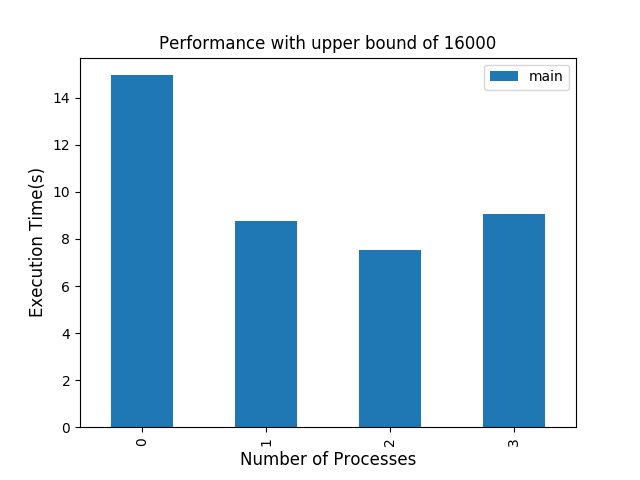
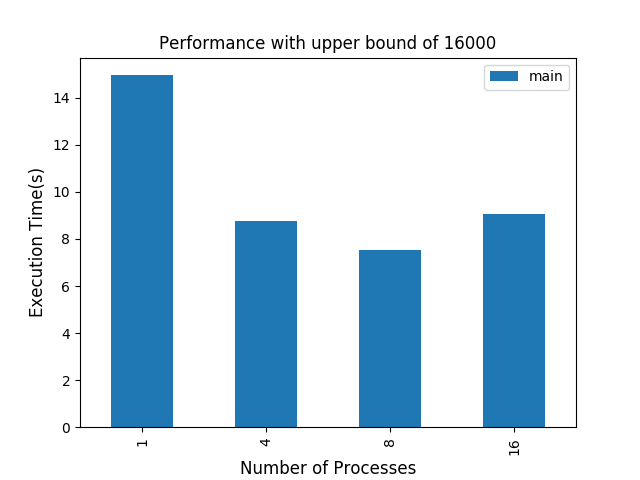
Get stats gen to label x axis values properly

Changed region(s): [[0.375, 0.9062, 0.6562, 1.0], [0.7812, 0.9062, 0.8125, 0.9688], [0.2188, 0.9062, 0.25, 0.9375]]

diff --git a/lab4/stats_gen.py b/lab4/stats_gen.py
@@ -14,12 +14,12 @@ output = []
 def gen_graph(data, data_size):
     plt.figure()
     df2 = pandas.DataFrame(data, columns=EXECUTABLES)
-    ax = df2.plot.bar(xticks = PROC_SIZES)
+    ax = df2.plot.bar()
 
     plt.title('Performance with upper bound of {}'.format(data_size), fontsize=12)
     plt.xlabel('Number of Processes', fontsize=12)
     plt.ylabel('Execution Time(s)', fontsize=12)
-
+    ax.set_xticklabels(PROC_SIZES, fontsize=10)
     plt.savefig('./stats/{}-fig.png'.format(data_size))
 
 for data_size in DATA_SIZES:
